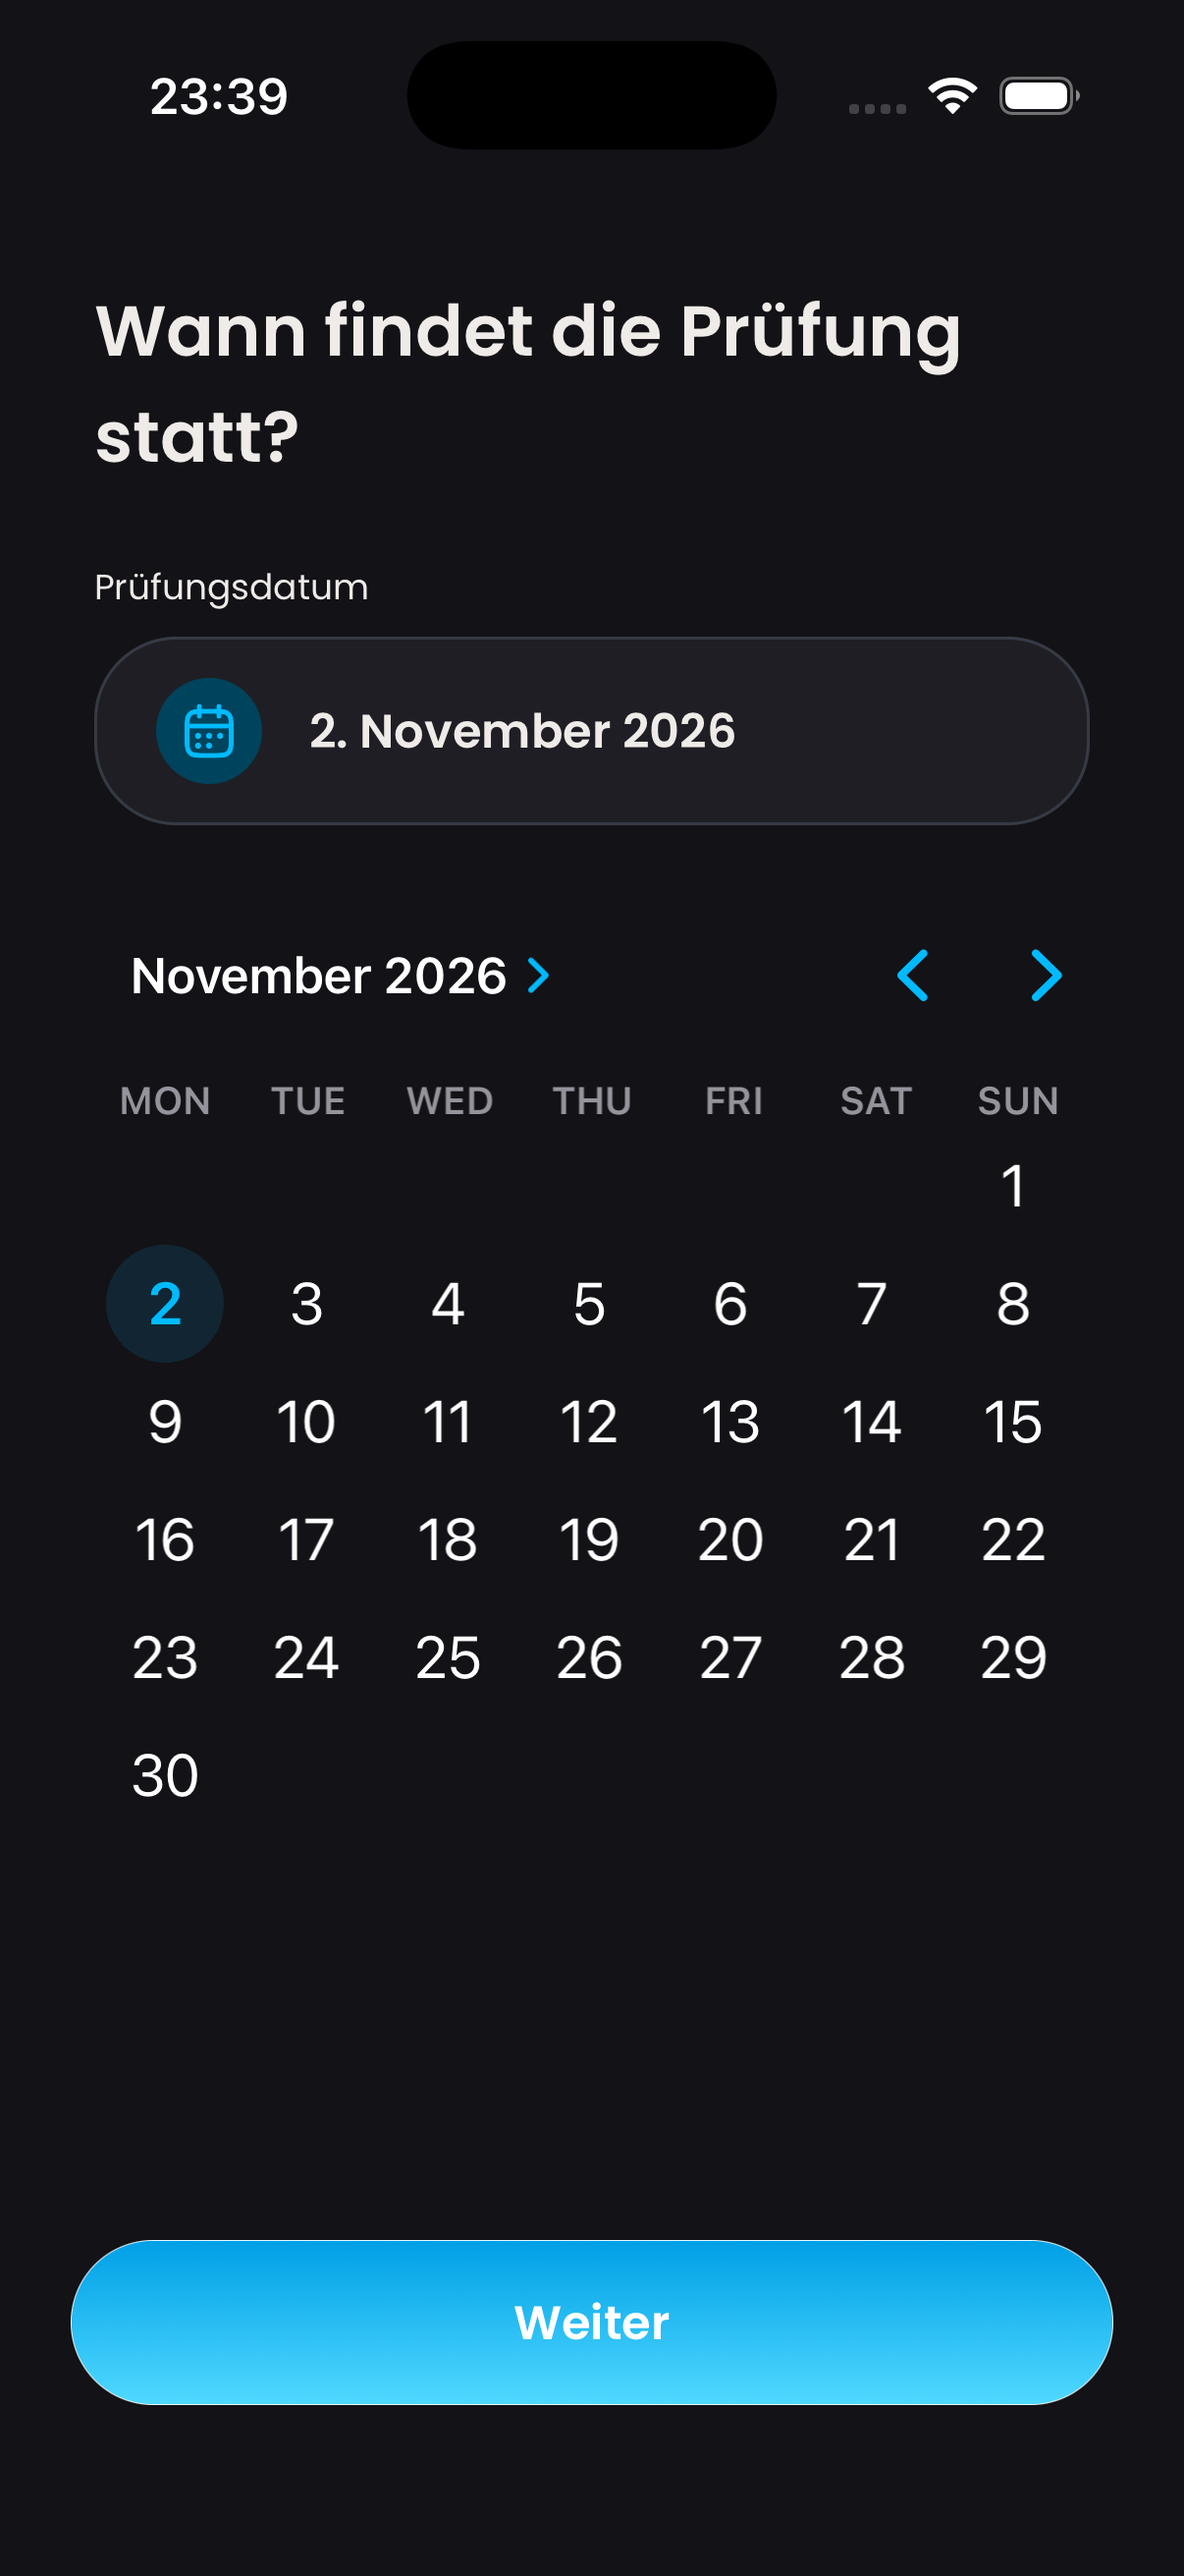
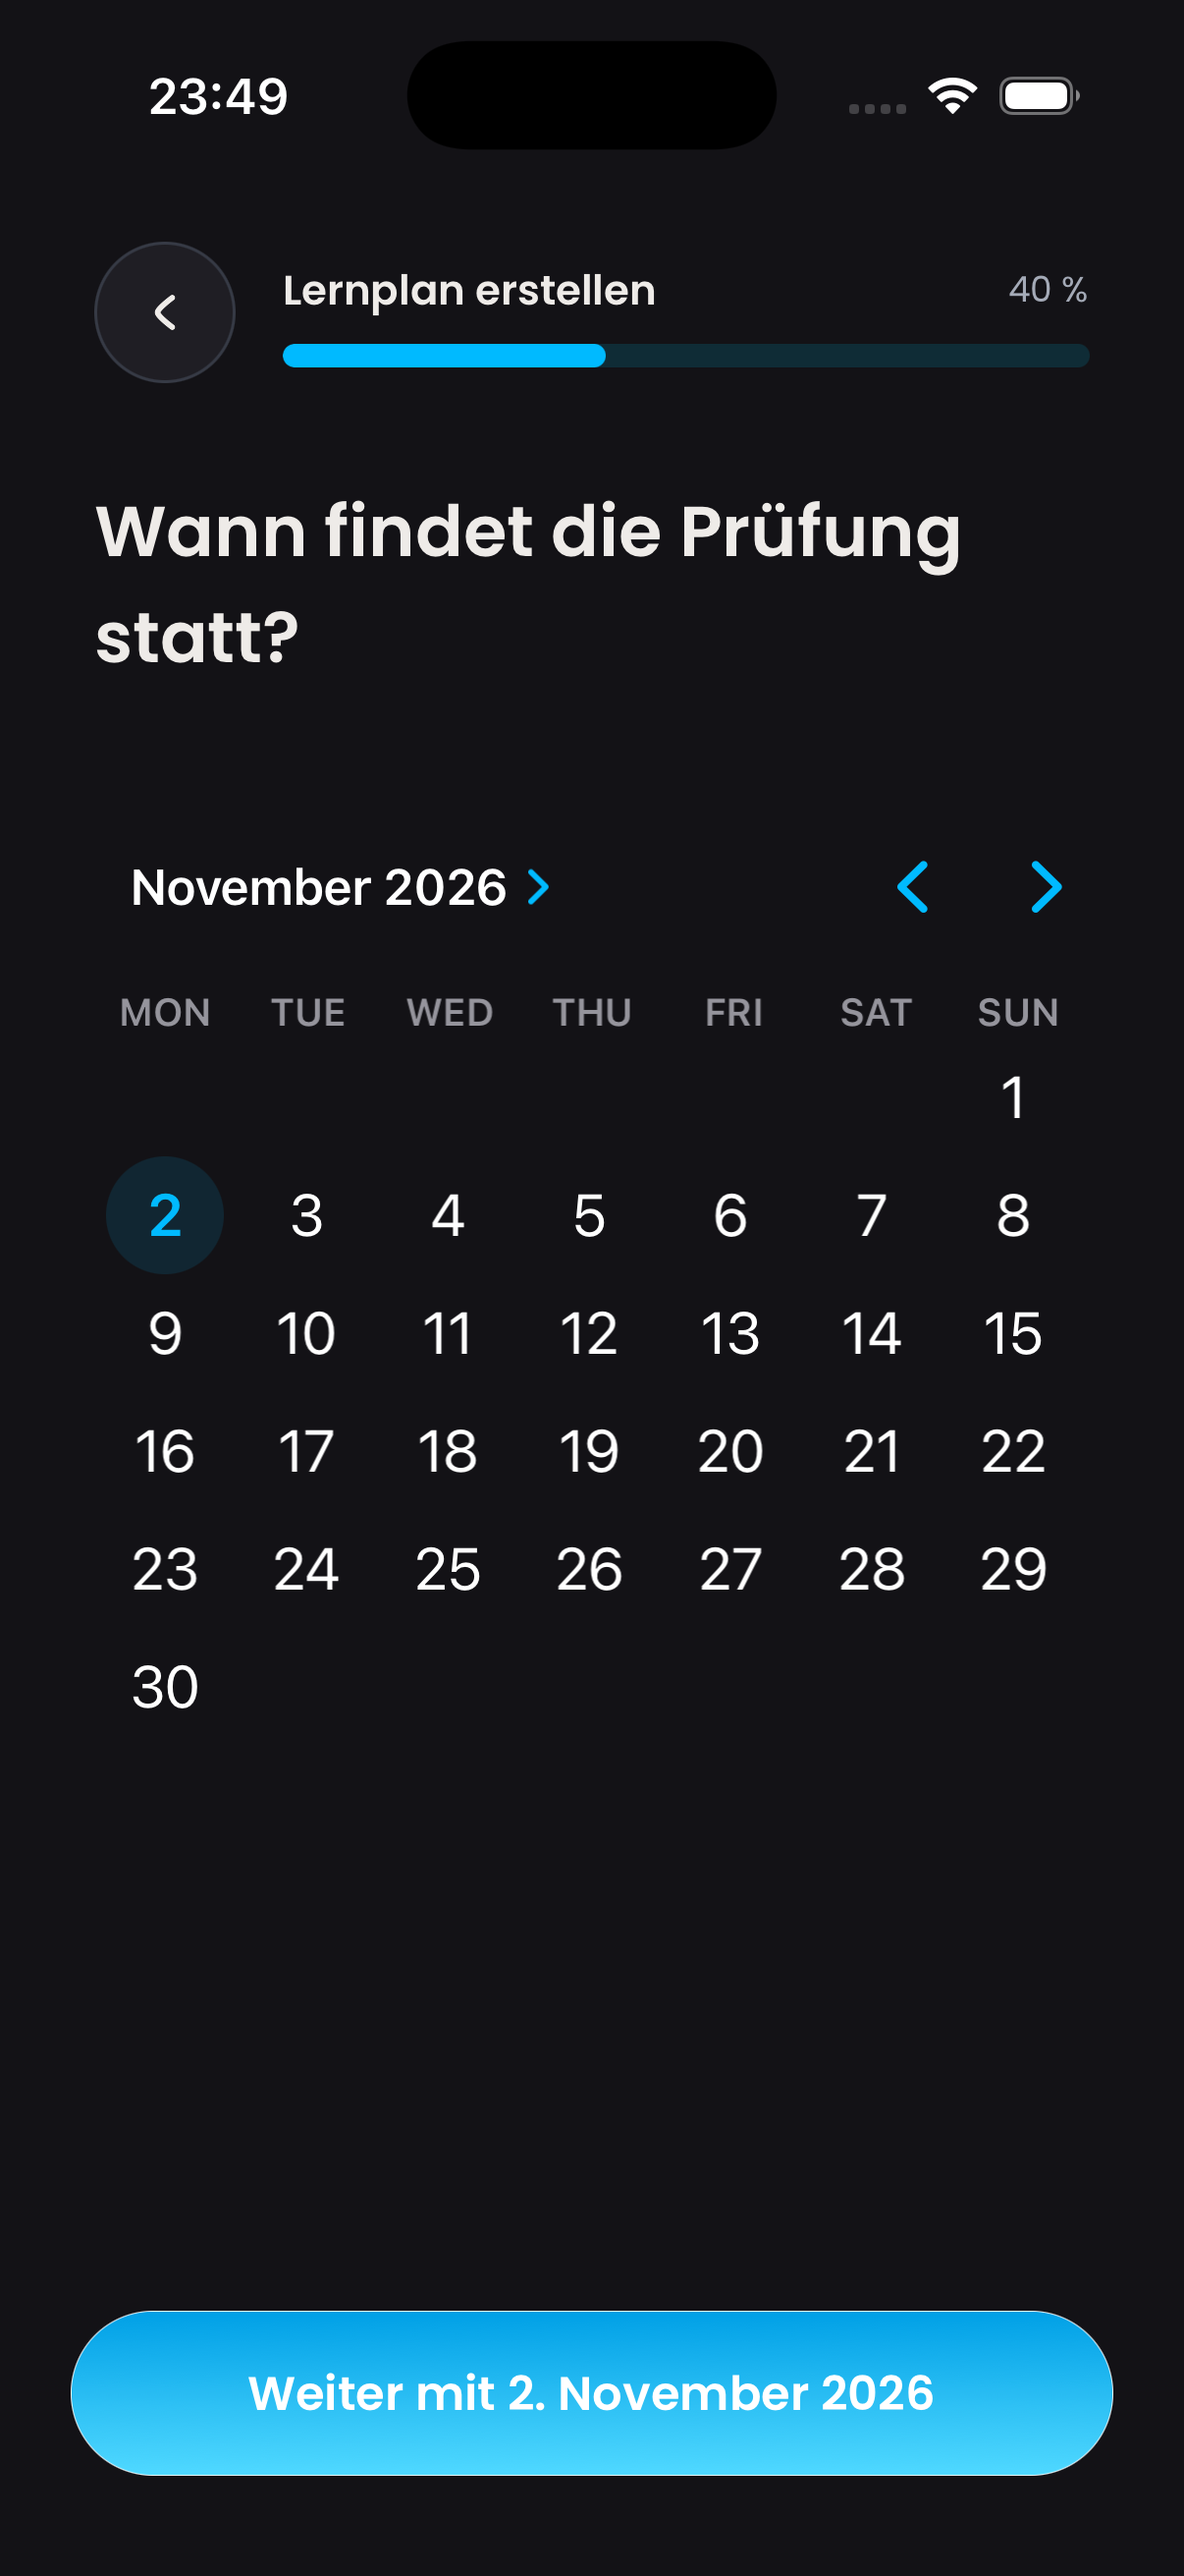
Show selected exam date in Continue button (DAY-515)

diff --git a/src/features/learning-plans/creation-flow.ui.test.tsx b/src/features/learning-plans/creation-flow.ui.test.tsx
@@ -330,13 +330,21 @@ async function selectGalleryPhotos(
 describe("exam creation across the topics boundary", () => {
 	test("carries an inline calendar selection into topics and back to the date step", async () => {
 		let screen = await render(<NewEntryScreen />);
+		expect(mockProgress.currentStep).toBe(2);
+		expect(
+			screen.getByRole("button", { name: "Weiter mit 30. September 2026" }),
+		).toBeOnTheScreen();
 		await fireEvent(
 			screen.getByTestId("inline-calendar"),
 			"change",
 			new Date(2026, 10, 2, 15, 30),
 		);
-		expect(screen.getByText("2. November 2026")).toBeOnTheScreen();
-		await fireEvent.press(screen.getByRole("button", { name: "Weiter" }));
+		expect(
+			screen.getByRole("button", { name: "Weiter mit 2. November 2026" }),
+		).toBeOnTheScreen();
+		await fireEvent.press(
+			screen.getByRole("button", { name: /^Weiter(?: mit .+)?$/ }),
+		);
 		expect(followReplacement()).toBe("/learning-plans/new");
 		expect(mockParams.examDateKey).toBe("2026-11-02");
 		await screen.unmount();
@@ -345,7 +353,9 @@ describe("exam creation across the topics boundary", () => {
 		expect(followReplacement()).toBe("/entry/new");
 		await screen.unmount();
 		screen = await render(<NewEntryScreen />);
-		expect(screen.getByText("2. November 2026")).toBeOnTheScreen();
+		expect(
+			screen.getByRole("button", { name: "Weiter mit 2. November 2026" }),
+		).toBeOnTheScreen();
 		expect(screen.getByTestId("inline-calendar").props.value).toEqual(
 			new Date(2026, 10, 2),
 		);
@@ -359,14 +369,18 @@ describe("exam creation across the topics boundary", () => {
 		mockAvailability.status = status;
 		const screen = await render(<NewEntryScreen />);
 		expect(screen.queryByText("Ist genug Lernzeit eingeplant?")).toBeNull();
-		await fireEvent.press(screen.getByRole("button", { name: "Weiter" }));
+		await fireEvent.press(
+			screen.getByRole("button", { name: /^Weiter(?: mit .+)?$/ }),
+		);
 		expect(followReplacement()).toBe("/learning-plans/new");
 	});
 
 	test("returns from topics to the date and can continue again with the same exam", async () => {
 		let screen = await render(<NewEntryScreen />);
 		expect(mockProgress.currentStep).toBe(2);
-		await fireEvent.press(screen.getByRole("button", { name: "Weiter" }));
+		await fireEvent.press(
+			screen.getByRole("button", { name: /^Weiter(?: mit .+)?$/ }),
+		);
 		expect(followReplacement()).toBe("/learning-plans/new");
 		await screen.unmount();
 		screen = await render(<NewLearningPlanScreen />);
@@ -384,7 +398,9 @@ describe("exam creation across the topics boundary", () => {
 		expect(
 			screen.getByText("Wann findet die Prüfung statt?"),
 		).toBeOnTheScreen();
-		await fireEvent.press(screen.getByRole("button", { name: "Weiter" }));
+		await fireEvent.press(
+			screen.getByRole("button", { name: /^Weiter(?: mit .+)?$/ }),
+		);
 		expect(followReplacement()).toBe("/learning-plans/new");
 		expect(mockParams).toMatchObject({
 			subject: "Biologie",
@@ -401,7 +417,9 @@ describe("exam creation across the topics boundary", () => {
 		mockParams.subject = "Debattieren";
 		mockParams.subjectIsOneTime = "true";
 		let screen = await render(<NewEntryScreen />);
-		await fireEvent.press(screen.getByRole("button", { name: "Weiter" }));
+		await fireEvent.press(
+			screen.getByRole("button", { name: /^Weiter(?: mit .+)?$/ }),
+		);
 		expect(followReplacement()).toBe("/learning-plans/new");
 		expect(mockParams.subjectIsOneTime).toBe("true");
 		await screen.unmount();
@@ -423,14 +441,20 @@ describe("exam creation across the topics boundary", () => {
 		await act(() => mockProgress.onBack());
 		expect(mockProgress.currentStep).toBe(1.5);
 		await fireEvent.press(screen.getByRole("radio", { name: "Chemie" }));
-		await fireEvent.press(screen.getByRole("button", { name: "Weiter" }));
+		await fireEvent.press(
+			screen.getByRole("button", { name: /^Weiter(?: mit .+)?$/ }),
+		);
 		mockUpdateEntry.mockRejectedValueOnce(
 			new Error("Speichern fehlgeschlagen"),
 		);
-		await fireEvent.press(screen.getByRole("button", { name: "Weiter" }));
+		await fireEvent.press(
+			screen.getByRole("button", { name: /^Weiter(?: mit .+)?$/ }),
+		);
 		expect(screen.getByText("Speichern fehlgeschlagen")).toBeOnTheScreen();
 		expect(mockRouter.replace).not.toHaveBeenCalled();
-		await fireEvent.press(screen.getByRole("button", { name: "Weiter" }));
+		await fireEvent.press(
+			screen.getByRole("button", { name: /^Weiter(?: mit .+)?$/ }),
+		);
 		expect(mockUpdateEntry).toHaveBeenLastCalledWith(
 			expect.objectContaining({
 				id: "exam-1",

diff --git a/src/components/entry/exam-flow.tsx b/src/components/entry/exam-flow.tsx
@@ -7,9 +7,7 @@ import Animated, {
 import { AddOptionButton } from "~/components/ui/add-option-button";
 import { Button } from "~/components/ui/button";
 import { DayovaSheetFrame } from "~/components/ui/dayova-sheet-frame";
-import { Field, FieldControl, FieldLabel } from "~/components/ui/field";
 import {
-	CalendarDays,
 	Computer,
 	GraduationCap,
 	Mic,
@@ -22,11 +20,7 @@ import { SelectionOptionRow } from "~/components/ui/selection-option-row";
 import { Text } from "~/components/ui/text";
 import { InlineSubjectPicker } from "~/features/subjects/subject-picker";
 import type { SubjectSelection } from "~/features/subjects/use-subject-options";
-import {
-	formatAccessibleExamDate,
-	getExamDatePickerRange,
-} from "~/lib/exam-date";
-import { useDayovaTheme } from "~/lib/theme";
+import { getExamDatePickerRange } from "~/lib/exam-date";
 
 const EXAM_TYPE_OPTIONS = [
 	{ label: "Test", Icon: Pencil },
@@ -175,36 +169,10 @@ function ExamDateSelector({
 	selectedDate: Date;
 	onSelect: (date: Date) => void;
 }) {
-	const { colors } = useDayovaTheme();
-	const selectedDateLabel = formatAccessibleExamDate(selectedDate);
 	const dateRange = getExamDatePickerRange({ selectedDate });
 
 	return (
-		<Field className="mt-6 mb-0">
-			<FieldLabel>Prüfungsdatum</FieldLabel>
-			<FieldControl>
-				<View
-					className="mr-4 h-9 w-9 items-center justify-center rounded-full bg-accent"
-					accessibilityElementsHidden
-					importantForAccessibility="no-hide-descendants"
-				>
-					<CalendarDays size={20} color={colors.primary} strokeWidth={2.1} />
-				</View>
-				<Text
-					className="flex-1 font-poppins font-semibold text-body-2 text-text"
-					accessibilityLiveRegion="polite"
-				>
-					{selectedDateLabel}
-				</Text>
-			</FieldControl>
-			<View className="mt-4">
-				<InlineDatePicker
-					value={selectedDate}
-					onChange={onSelect}
-					{...dateRange}
-				/>
-			</View>
-		</Field>
+		<InlineDatePicker value={selectedDate} onChange={onSelect} {...dateRange} />
 	);
 }
 

diff --git a/src/components/entry/exam-flow.ui.test.tsx b/src/components/entry/exam-flow.ui.test.tsx
@@ -176,7 +176,8 @@ describe("ExamDateSelector", () => {
 		const screen = await render(
 			<ExamDateSelector selectedDate={selectedDate} onSelect={onSelect} />,
 		);
-		expect(screen.getByText("14. Oktober 2026")).toBeOnTheScreen();
+		expect(screen.queryByText("14. Oktober 2026")).toBeNull();
+		expect(screen.queryByText("Prüfungsdatum")).toBeNull();
 		expect(
 			screen.queryByRole("button", { name: "Prüfungsdatum ändern" }),
 		).toBeNull();
@@ -188,7 +189,8 @@ describe("ExamDateSelector", () => {
 		await screen.rerender(
 			<ExamDateSelector selectedDate={nextDate} onSelect={onSelect} />,
 		);
-		expect(screen.getByText("2. November 2026")).toBeOnTheScreen();
+		expect(screen.queryByText("2. November 2026")).toBeNull();
+		expect(screen.getByTestId("inline-calendar").props.value).toEqual(nextDate);
 		expect(screen.getByTestId("inline-calendar")).toBeOnTheScreen();
 	});
 });

diff --git a/src/app/(creation)/entry/new.tsx b/src/app/(creation)/entry/new.tsx
@@ -58,6 +58,7 @@ import {
 	MIN_EXAM_DURATION_MINUTES,
 	shiftEndTimeForStartChange,
 } from "~/lib/entry-time";
+import { formatAccessibleExamDate } from "~/lib/exam-date";
 import { goBackOrReplace, useBackIntent } from "~/lib/navigation";
 import { ROUTES } from "~/lib/routes";
 import { useDayovaTheme } from "~/lib/theme";
@@ -946,7 +947,11 @@ export default function NewEntryScreen() {
 							{step === "basics" && isStartingLearningPlan ? (
 								<ActivityIndicator color="#FFFFFF" />
 							) : (
-								<Text>Weiter</Text>
+								<Text className="shrink text-center">
+									{step === "basics"
+										? `Weiter mit ${formatAccessibleExamDate(plannedDate)}`
+										: "Weiter"}
+								</Text>
 							)}
 						</Button>
 					</StickyActionFooter>

diff --git a/docs/evidence/day-515-inline-calendar/README.md b/docs/evidence/day-515-inline-calendar/README.md
@@ -1,21 +1,19 @@
 # DAY-515 inline exam calendar validation
 
-Captured on 14 October 2026 in a separate iPhone 17 Pro simulator running iOS 26.5.
+Updated on 14 October 2026 using an isolated iPhone 17 Pro simulator running iOS 26.5.
 
-These are native component previews using the production `ExamDateSelector`, `InlineDatePicker`, theme provider, text, and button components in a temporary scrollable fixture. The surrounding creation header and authenticated route were not part of the fixture. The fixture and temporary entry point were removed after capture.
+These native previews use the production `LearningPlanCreationProgressHeader`, `ExamDateSelector`, `InlineDatePicker`, theme, text, and button components. The progress header is the existing version on this PR's branch. The authenticated route is not mounted in the temporary fixture; route state and navigation are tested separately. The fixture and temporary entry point are removed after capture.
 
-- `ios-light.png`: light appearance, 14 October 2026 selected; calendar visible immediately, past days disabled, Continue visible.
-- `ios-dark-selected-date.png`: dark appearance, 2 November 2026 supplied as the controlled selected date; summary and native selection agree and the six-row calendar fits.
+- `ios-light.png`: 14 October 2026 selected; progress is visible at 40%, the separate date card is absent, and the button reads “Weiter mit 14. Oktober 2026”.
+- `ios-dark-selected-date.png`: 2 November 2026 selected; the progress header remains visible, the six-row calendar fits, and the button reads “Weiter mit 2. November 2026”.
 
-The date values in these screenshots were supplied by the fixture; screenshots are not evidence of a physical tap or route navigation. The available simulator rendered its native calendar labels in English. The wrapper passes `de-DE`, as does the existing sheet picker.
+Dates in the screenshots are fixture values. Interaction tests verify that a calendar change updates the button, that Continue carries the new date into topics, and that returning preserves it. Screenshots are not evidence of physical taps or authenticated route navigation. The available simulator renders native calendar labels in English; the wrapper passes `de-DE`, as does the existing sheet picker.
 
-Visual inspection found a native inline host sizing issue on redraw. The iOS wrapper now measures its available width and supplies explicit native dimensions, matching the existing sheet's sizing requirement, with extra height at larger text scales. The light screenshot was recaptured after the explicit-dimension adjustment. The dark screenshot records the appearance preview during that sizing iteration; it is not a separate final-dimensions verification. Maximum text-size and tablet visual inspection remain unverified.
+Validation for this revision:
 
-Automated checks passed:
+- TypeScript and scoped Biome/ESLint checks.
+- 35 exam-picker and creation-flow UI tests, including the absence of the date card, the initial/changed Continue labels, preserved date after navigating back, and the unchanged exam-date progress step.
+- 3 creation-progress unit tests.
+- Previously passed Android adapter tests in Europe/Berlin and America/Los_Angeles and 7 date-range/picker unit tests; picker internals did not change in this revision.
 
-- TypeScript typecheck and scoped Biome/ESLint checks.
-- 35 exam-picker and creation-flow UI tests, including selecting a new date, continuing to topics, and returning with the same date.
-- Android native-picker adapter test in Europe/Berlin and America/Los_Angeles, covering local date bounds and a selection across the European daylight-saving transition.
-- 7 existing date-range and date-picker unit tests.
-
-Android native visual inspection was unavailable because no Android emulator or device was connected. The UI-control service could not interact with the isolated simulator window reliably; native tap behavior is covered at the callback boundary in tests, not by these screenshots.
+The native inline host uses measured width and explicit height with extra space at larger text scales. Maximum text size, tablet layout, and Android native visuals remain unverified. No Android device is connected, and the available UI-control service could not reliably interact with the isolated simulator window.

diff --git a/docs/contexts/design-system/CONTEXT.md b/docs/contexts/design-system/CONTEXT.md
@@ -50,8 +50,10 @@ platform display normalization, German locale, safe-area handling, and native
 presentation. Dedicated date steps with a persistent calendar use `InlineDatePicker`
 from `src/components/ui/inline-date-picker` instead. It owns native inline
 rendering, theme, native sizing, and Android date-only timezone conversion.
-[DAY-515](https://linear.app/dayova/issue/DAY-515) defines the exam-date step: it shows the selected date above this calendar and commits day
-changes immediately; the flow’s existing Continue action advances to topics.
+[DAY-515](https://linear.app/dayova/issue/DAY-515) defines the exam-date step: the
+calendar appears below the question, without a separate selected-date card. Day
+changes immediately update the Continue label ("Weiter mit 2. November 2026").
+The creation progress header stays visible, and Continue advances to topics.
 
 ## Icons
 
